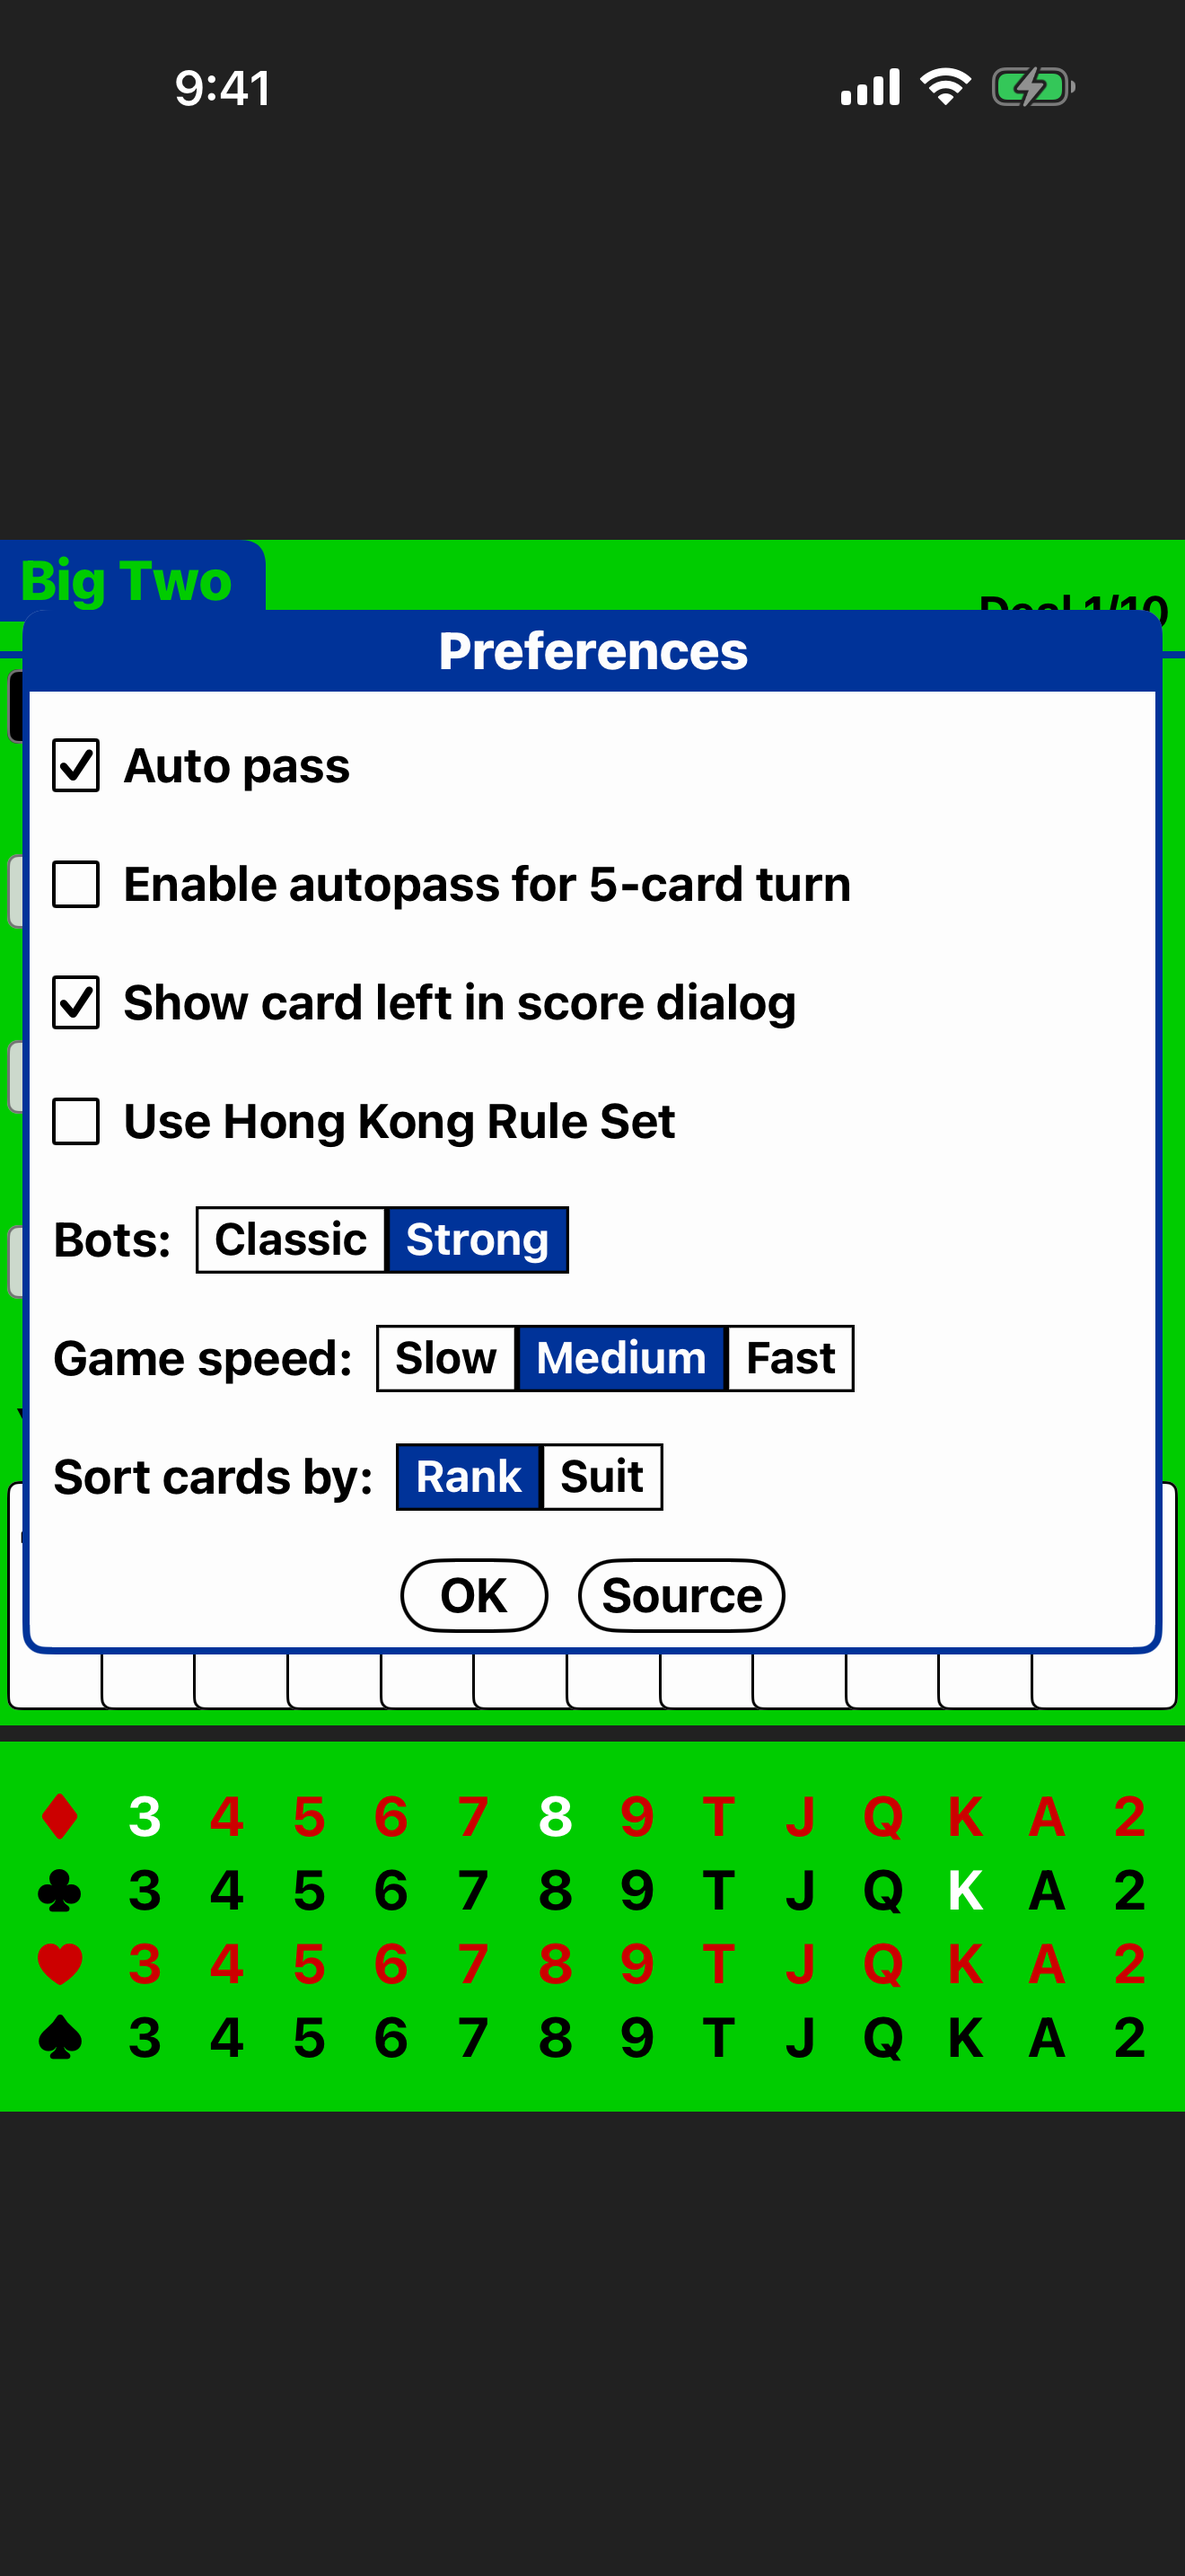
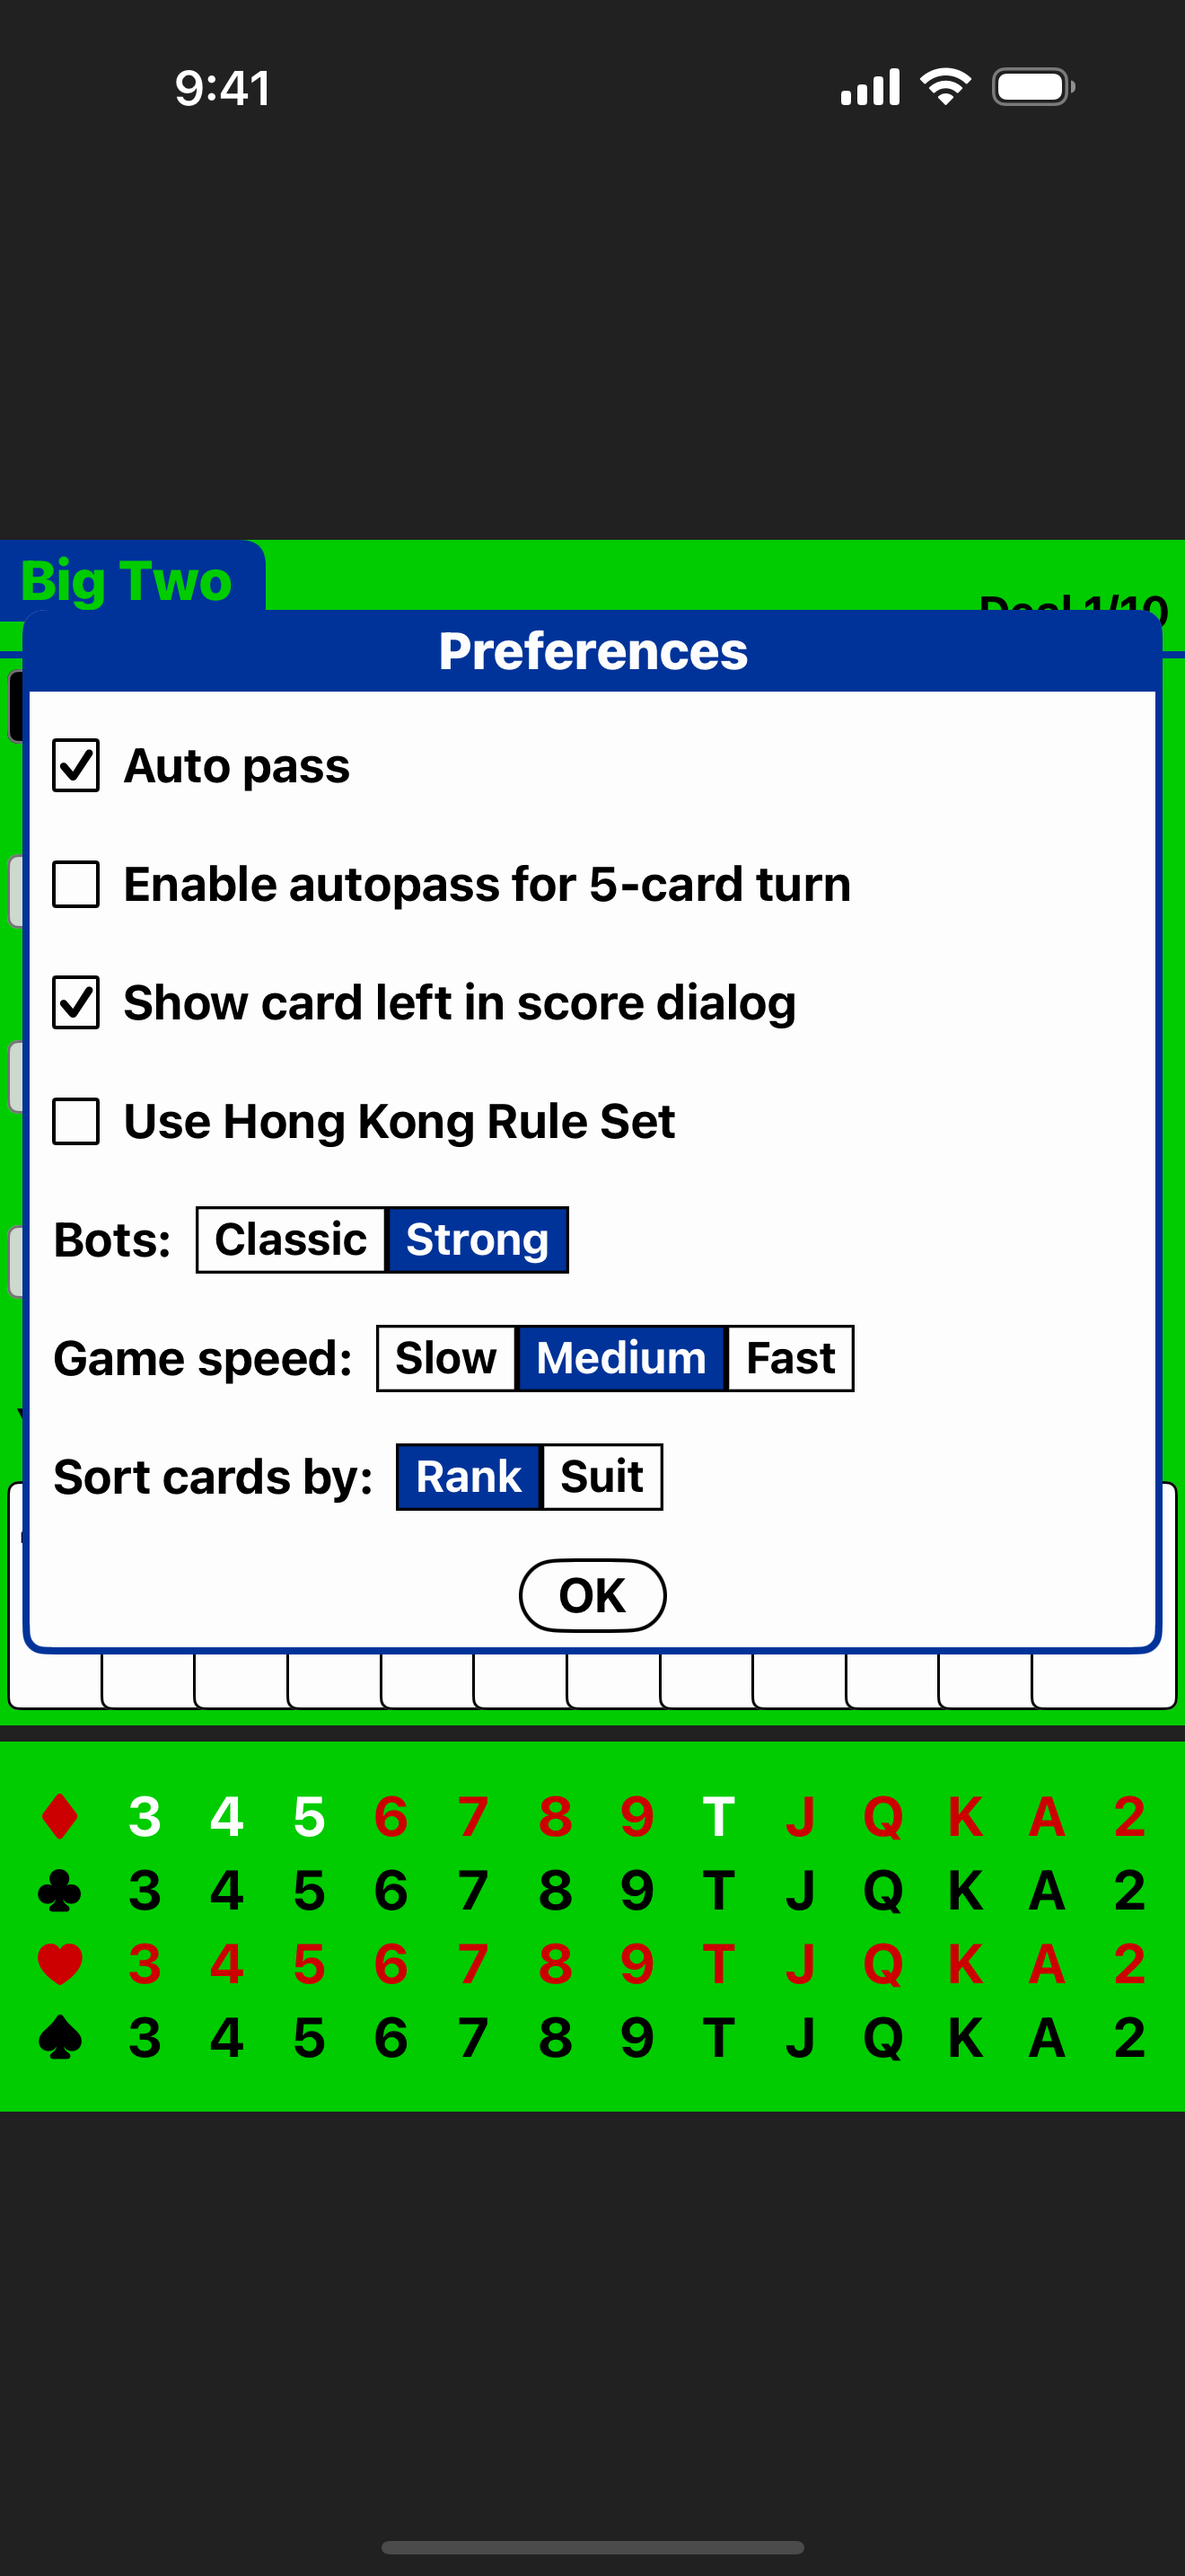
Move Source out of Preferences and into About
The repo link sat as a second pill beside OK in Preferences, where the Palm
form has only OK. It belongs with the other credits rows, so About now reads
Share / Rate / Report an Issue / Source / Follow on X — five rows still fit
the 320 square. Now that they are separate entries, Report an Issue points at
the issues page instead of the repo root.

The tour was re-shot on an iPhone 16 Pro Max (iOS 18.6): Xcode 27.1's iOS 27.1
runtime supports only "iPhone Duo", so no iPhone 17 Pro Max can be created here
any more. Same 1320x2868, but every PNG in the set changed.

diff --git a/BigTwoApp/Views/AboutDialogView.swift b/BigTwoApp/Views/AboutDialogView.swift
@@ -37,7 +37,8 @@ struct AboutDialogView: View {
         VStack(alignment: .leading, spacing: 0) {
           row("Share this App", id: "about_share", action: shareApp)
           row("Rate this App", id: "about_rate", action: rateApp)
-          row("Report an Issue", id: "about_report") { open(Self.github) }
+          row("Report an Issue", id: "about_report") { open(Self.issues) }
+          row("Source", id: "about_source") { open(Self.github) }
           row("Follow on X", id: "about_x") { open(Self.twitter) }
         }
       }
@@ -57,7 +58,7 @@ struct AboutDialogView: View {
         .foregroundColor(.ink)
         .multilineTextAlignment(.leading)
         .frame(maxWidth: .infinity, alignment: .leading)
-        // 20u, not 44pt: four rows plus credits have to fit the 320 square.
+        // 20u, not 44pt: five rows plus credits have to fit the 320 square.
         .frame(minHeight: 20 * u, alignment: .leading)
         .contentShape(Rectangle())
     }
@@ -84,6 +85,7 @@ struct AboutDialogView: View {
 
   private static let appStore = URL(string: "https://apps.apple.com/app/id6811548119")
   private static let github = URL(string: "https://github.com/billypchan/BigTwo")
+  private static let issues = URL(string: "https://github.com/billypchan/BigTwo/issues")
   private static let twitter = URL(string: "https://x.com/billchanios")
 }
 

diff --git a/BigTwoUITests/GameUITests.swift b/BigTwoUITests/GameUITests.swift
@@ -117,6 +117,8 @@ final class GameUITests: XCTestCase {
     XCTAssertTrue(app.element("about_share").waitForExistence(timeout: 5))
     XCTAssertTrue(app.element("about_rate").exists)
     XCTAssertTrue(app.element("about_report").exists)
+    // Moved here from Preferences: the repo link belongs with the other credits rows.
+    XCTAssertTrue(app.element("about_source").exists)
     XCTAssertTrue(app.element("about_x").exists)
     XCTAssertFalse(app.buttons["about_sharedkit"].exists)
     XCTAssertEqual(app.state, .runningForeground)
@@ -161,7 +163,7 @@ final class GameUITests: XCTestCase {
     openPreferences()
     let hk = app.buttons["pref_hongKong"]
     XCTAssertTrue(hk.waitForExistence(timeout: 5))
-    XCTAssertTrue(app.buttons["pref_source"].exists)
+    XCTAssertFalse(app.buttons["pref_source"].exists, "Source lives in About now")
     XCTAssertTrue(app.buttons["pref_bots_Strong"].isSelected)
     XCTAssertEqual(hk.value as? String, "0")
     hk.tap()
@@ -178,7 +180,6 @@ final class GameUITests: XCTestCase {
     XCTAssertEqual(app.buttons["pref_hongKong"].value as? String, "1")
     XCTAssertTrue(app.buttons["pref_speed_Fast"].isSelected)
     XCTAssertTrue(app.buttons["pref_bots_Classic"].isSelected)
-    XCTAssertTrue(app.buttons["pref_source"].exists)
   }
 
   func testNames_customNameShowsOnTheTableAndSurvivesARelaunch() {

diff --git a/BigTwoApp/Views/PreferencesDialogView.swift b/BigTwoApp/Views/PreferencesDialogView.swift
@@ -11,7 +11,6 @@ struct PreferencesDialogView: View {
   let onOK: () -> Void
 
   @Environment(\.palmUnit) private var u
-  @Environment(\.openURL) private var openURL
 
   var body: some View {
     PalmDialogView(title: L10n.string("Preferences")) {
@@ -45,14 +44,7 @@ struct PreferencesDialogView: View {
     } buttons: {
       PalmButtonView(title: L10n.string("OK"), width: 40, action: onOK)
         .accessibilityIdentifier("pref_ok")
-      PalmButtonView(title: L10n.string("Source"), width: 56, action: openSource)
-        .accessibilityIdentifier("pref_source")
     }
-  }
-
-  private func openSource() {
-    guard let url = URL(string: "https://github.com/billypchan/BigTwo") else { return }
-    openURL(url)
   }
 }
 

diff --git a/CLAUDE.md b/CLAUDE.md
@@ -107,7 +107,8 @@ https://bigtwo-palmos.sourceforge.net — `Start.gif`, `portrait.gif`, `menu.gif
   languages and no test fails (`"I will not play with real money."` with a trailing
   period did exactly that in the About dialog; the four About rows had no entry at all).
   ⚠ A fixed-width pill (`PalmButtonView.width`) does not grow: check a long
-  translation in the screenshot, or shorten it (vi "Source" is "Nguồn", not "Mã nguồn").
+  translation in the screenshot, or shorten it (vi "Source" is "Nguồn", not "Mã nguồn" —
+  it was a pill in Preferences; it is an About row now, but the lesson stands).
   **Screenshot another language**: `xcodebuild test … -only-testing:BigTwoUITests/ScreenTourUITests/testScreenTour -testLanguage vi`
   and extract into a scratch dir. `XCUIApplication.uiTestLanguage` reads the runner's
   own `-AppleLanguages` argument, so the label assertions stand aside; the run stays
@@ -206,7 +207,8 @@ xcodebuild test -project BigTwo.xcodeproj -scheme BigTwo \
 
 - ⚠ **Always run the edited UI test** after changing a view or its XCUITest. Do not
   skip because the change looks small.
-- ⚠ **Do not tap `pref_source`.** It opens Safari; the test cannot come back.
+- ⚠ **Do not tap `about_source`** (nor `about_report`). They open Safari; the test
+  cannot come back.
 - ⚠ **Never pipe `xcodebuild` into `tail`/`head`** — `$?` becomes the pipe's. Redirect,
   then grep `Executed [0-9]+ test` (it says "1 test", singular — a `tests` pattern misses
   it). A mistyped `-only-testing:` runs zero tests and still prints `** TEST SUCCEEDED **`.
@@ -248,9 +250,17 @@ Screen-tour names: `ios_screen_NN_<name>` (lead, selected, trick, menu, preferen
 - ⚠ **Checked 2026-09-13: the Data volume is 99 % full (≈3 GB free).** Time Machine and
   cache deletion push the load average to 50–75 and every UI test slows down (launch
   took 18 s). Free space before trusting a timing failure.
-- This Mac (checked 2026-09-13): **Xcode 26.3**, iOS 26.3 runtime. Use **iPhone 17 Pro Max**
-  (`xcrun simctl list devices available` for the UDID — pin by `id=`, never by a `name=`
-  that two devices share).
+- ⚠ **Checked 2026-09-29: this Mac is on Xcode 27.1, and its iOS 27.1 runtime supports
+  exactly one device — "iPhone Duo".** `simctl create` answers *Incompatible device* for
+  every iPhone 17/18 type, so there is no iPhone 17 Pro Max any more. The screen tour is
+  captured on an **iPhone 16 Pro Max on the iOS 18.6 runtime**, which is the same
+  **1320×2868** the 6.9" store set needs, and the app ships iOS 15+ so 18.6 is in range.
+  Make your own device (`xcrun simctl create "BigTwo 16 Pro Max"
+  com.apple.CoreSimulator.SimDeviceType.iPhone-16-Pro-Max
+  com.apple.CoreSimulator.SimRuntime.iOS-18-6`) rather than borrowing a booted one — pin
+  by `id=`, never by a `name=` that two devices share.
+- Earlier (2026-09-13): Xcode 26.3, iOS 26.3, iPhone 17 Pro Max — what every screenshot
+  before 2026-09-29 was shot on.
 - **Never pass `-derivedDataPath`**, and test in this checkout (not a worktree or `/tmp`
   clone) — both force a full rebuild in a fresh DerivedData tree.
 
@@ -328,16 +338,16 @@ Screen-tour names: `ios_screen_NN_<name>` (lead, selected, trick, menu, preferen
 
 ## State of play
 
-Single-player against three bots is complete and runs on the simulator; 63 kit tests and
+Single-player against three bots is complete and runs on the simulator; 67 kit tests and
 14 UI tests pass (see `docs/test_runs.md`). Open items, roughly in order:
 
 1. App Store: **1.1 is live (released 2026-09-29)**, tagged `v1.1` at `26c69b6`; 1.0 is
    tagged `v1.0`. `main` is **1.2**; Xcode Cloud archives each push. The listing now
    carries six locales (en-US, zh-Hant, zh-Hans, vi, id, ms — Filipino is not an App
    Store metadata language); `docs/store/` holds the copy of record. ⚠ The **4.7"
-   (750×1334) screenshot set** (`scripts/make_47_screenshots.py`, PR #17) was **not**
-   uploaded before 1.1 shipped, so an iPhone SE / 6s on iOS 15 still sees no screenshots
-   — it goes on the **1.2** listing. ⚠ No App Store Connect API key exists on this Mac
+   (750×1334) screenshot set** is in the repo (`scripts/make_47_screenshots.py`) but was
+   **not** uploaded before 1.1 shipped, so an iPhone SE / 6s on iOS 15 still sees no
+   screenshots — it goes on the **1.2** listing. ⚠ No App Store Connect API key exists on this Mac
    (`~/.appstoreconnect/private_keys/` is absent), so every store step — listing builds,
    uploading screenshots, submitting — is fastlane-on-a-session or web-only until one
    is made.

diff --git a/docs/pr_learnings.md b/docs/pr_learnings.md
@@ -13,6 +13,29 @@ and the evidence.
 
 ---
 
+## source-in-about — Source 按鈕搬家，順便發現模擬器沒了
+
+**Source 從 Preferences 搬到 About。** 偏好設定那排按鈕只剩 OK；About 的列表變成五列
+（Share / Rate / Report an Issue / Source / Follow on X）。既然兩個入口分開了，
+`about_report` 改指 `/issues`（以前和 Source 一樣指 repo 根目錄），`about_source` 指 repo。
+`"Source"` 這個 key 七個語系本來就有，不必新增字串；vi 的 "Nguồn" 是當初為了塞進 56 單位
+藥丸才縮的，現在是整列文字，寬度限制已經不在，但字串沒動。
+
+**五列還是塞得下 320 方框**——`row()` 的註解說「四列加 credits 要塞進去」，實測第五列加上去
+之後對話框底部仍在方框內（見 `screenshots/ios/ios_screen_07_about.png`）。再多一列就要量了。
+
+**⚠ 這台 Mac 已經沒有 iPhone 17 Pro Max。** Xcode 升到 27.1，而 iOS 27.1 runtime 的
+`supportedDeviceTypes` 只有一個 **iPhone Duo**；`simctl create` 對 iPhone 17/18 全系列一律
+回 *Incompatible device*（code 403）。改用 **iPhone 16 Pro Max + iOS 18.6**，像素同樣是
+1320×2868（6.9"），所以截圖尺寸與商店那套一致；App 最低支援 iOS 15，18.6 在範圍內。
+代價是 `screenshots/ios/` 九張全部重拍（狀態列與字形由新 runtime 畫，加上版號變 1.2），
+不是只有改到的兩張。規則已寫進 CLAUDE.md § Simulator。
+
+**證明測試會失敗**：把 `about_source` 那一列拿掉重跑 `testAbout_showsSharedKit` →
+`Checking existence of "about_source" Any` 失敗（exit 65），裝回去再跑 → 綠。
+
+---
+
 ## store-screenshots-47 — iOS 15 機（SE／6s）商店頁一張截圖都沒有
 
 **舊版 App Store client 不會 fallback 到 6.9" 那一組。** Apple 文件寫的縮放鏈是
@@ -43,6 +66,8 @@ and the evidence.
 
 **沒有實機／模擬器驗證**：這次沒有跑任何測試（沒有 4.7" 模擬器可跑），只有人工看圖與尺寸
 檢查（35 張全部 750×1334）。
+
+---
 
 ## store-localized-metadata（續）— 用 fastlane 真的把六個語系推上去了
 

diff --git a/docs/test_runs.md b/docs/test_runs.md
@@ -55,3 +55,5 @@ evidence that a test can fail; they stay in the log.
 - 2026-09-20 14:28 — iOS ✓ 1/1 testScreenTour (`-testLanguage fil`, Slow/Fast → Mabagal/Mabilis: "Bilis:" was both the label and the Fast option)
 - 2026-09-20 14:45 — App Store (no test run) — six locales uploaded to the 1.1 listing with `fastlane deliver` on the stored spaceauth session; read back with `download_metadata` / `download_screenshots`: all six byte-identical, 5 screenshots each, copyright "2026 Bill Chan"
 - 2026-09-29 — App Store (no test run) — **v1.1 released**; tagged `v1.1` at `26c69b6` (the last successful Xcode Cloud archive on main), `main` bumped to 1.2. The 4.7" set was not on the 1.1 listing — it waits for 1.2.
+- 2026-09-29 — iOS (iPhone 16 Pro Max, 18.6 — no iPhone 17 Pro Max on this Mac any more) ✓ 3/3 testAbout_showsSharedKit + testPreferences_surviveARelaunch + testScreenTour (Source moved to About). Then ✗ 1/1 deliberate: `about_source` row removed → the About test failed on it; restored → ✓ 1/1. All 9 tour shots re-extracted (new runtime + version 1.2, so every PNG changed)
+- 2026-09-29 — after rebasing source-in-about on main (PRs #15 + #17 merged): BigTwoKit ✓ 67/67 · iOS (iPhone 16 Pro Max, 18.6) ✓ 3/3 testAbout + testPreferences + testScreenTour. Tour re-extracted on the rebased code — the new StrongBot plays a different trick, so shots 03–09 changed again
